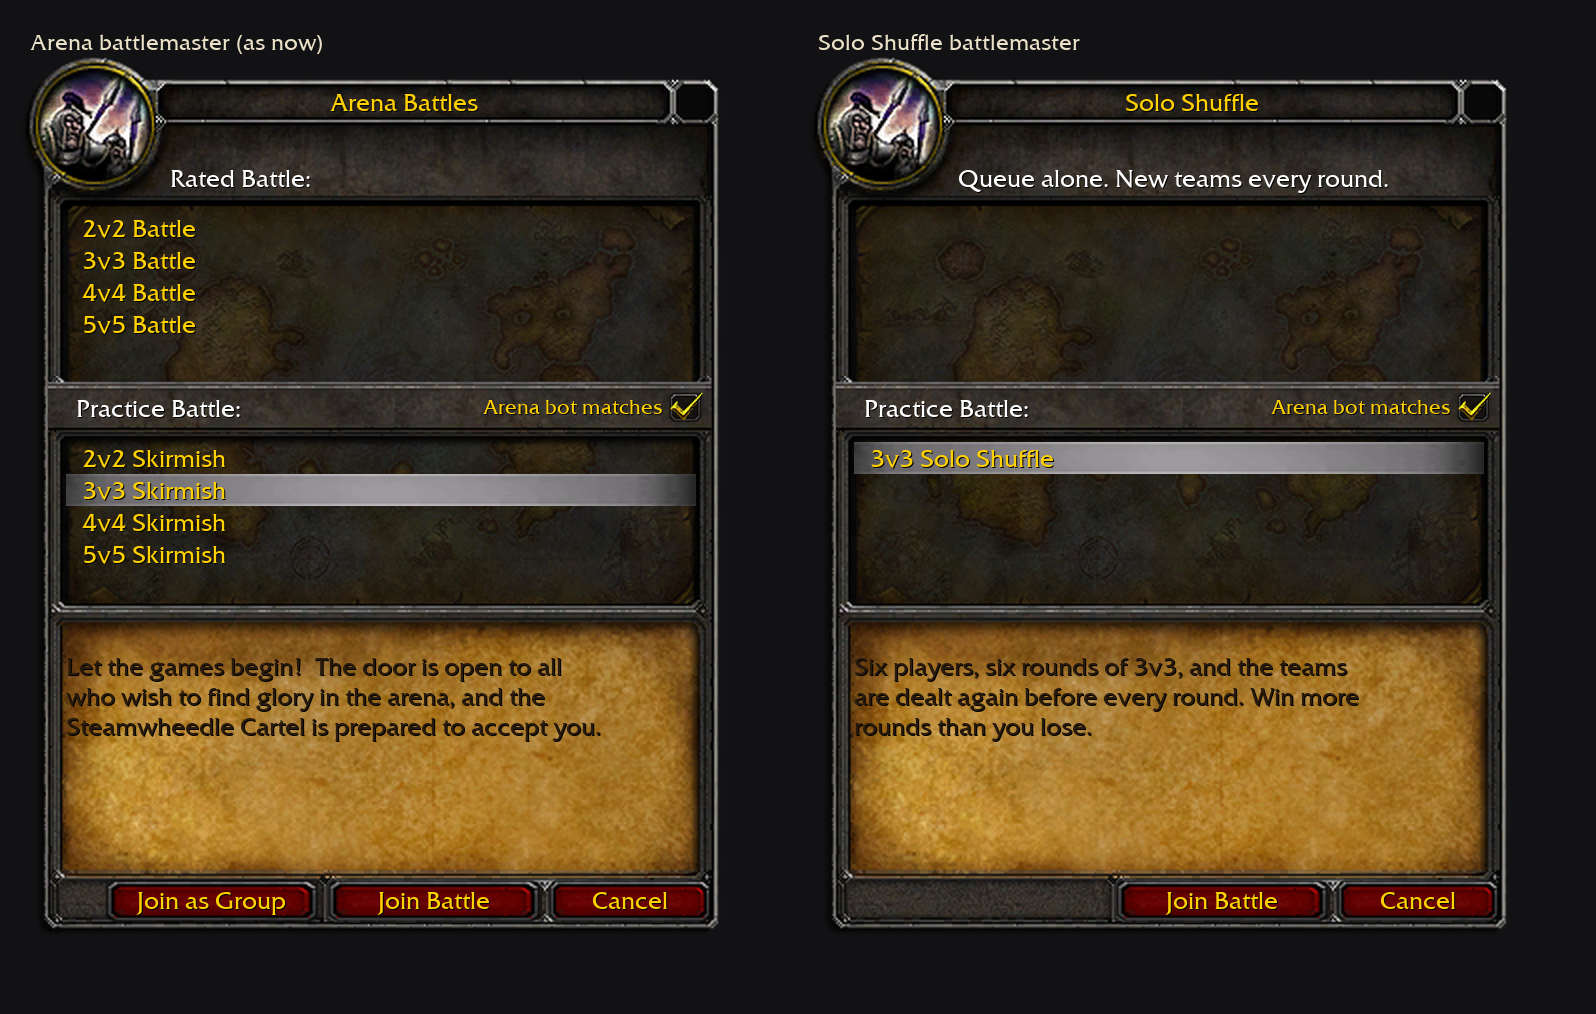
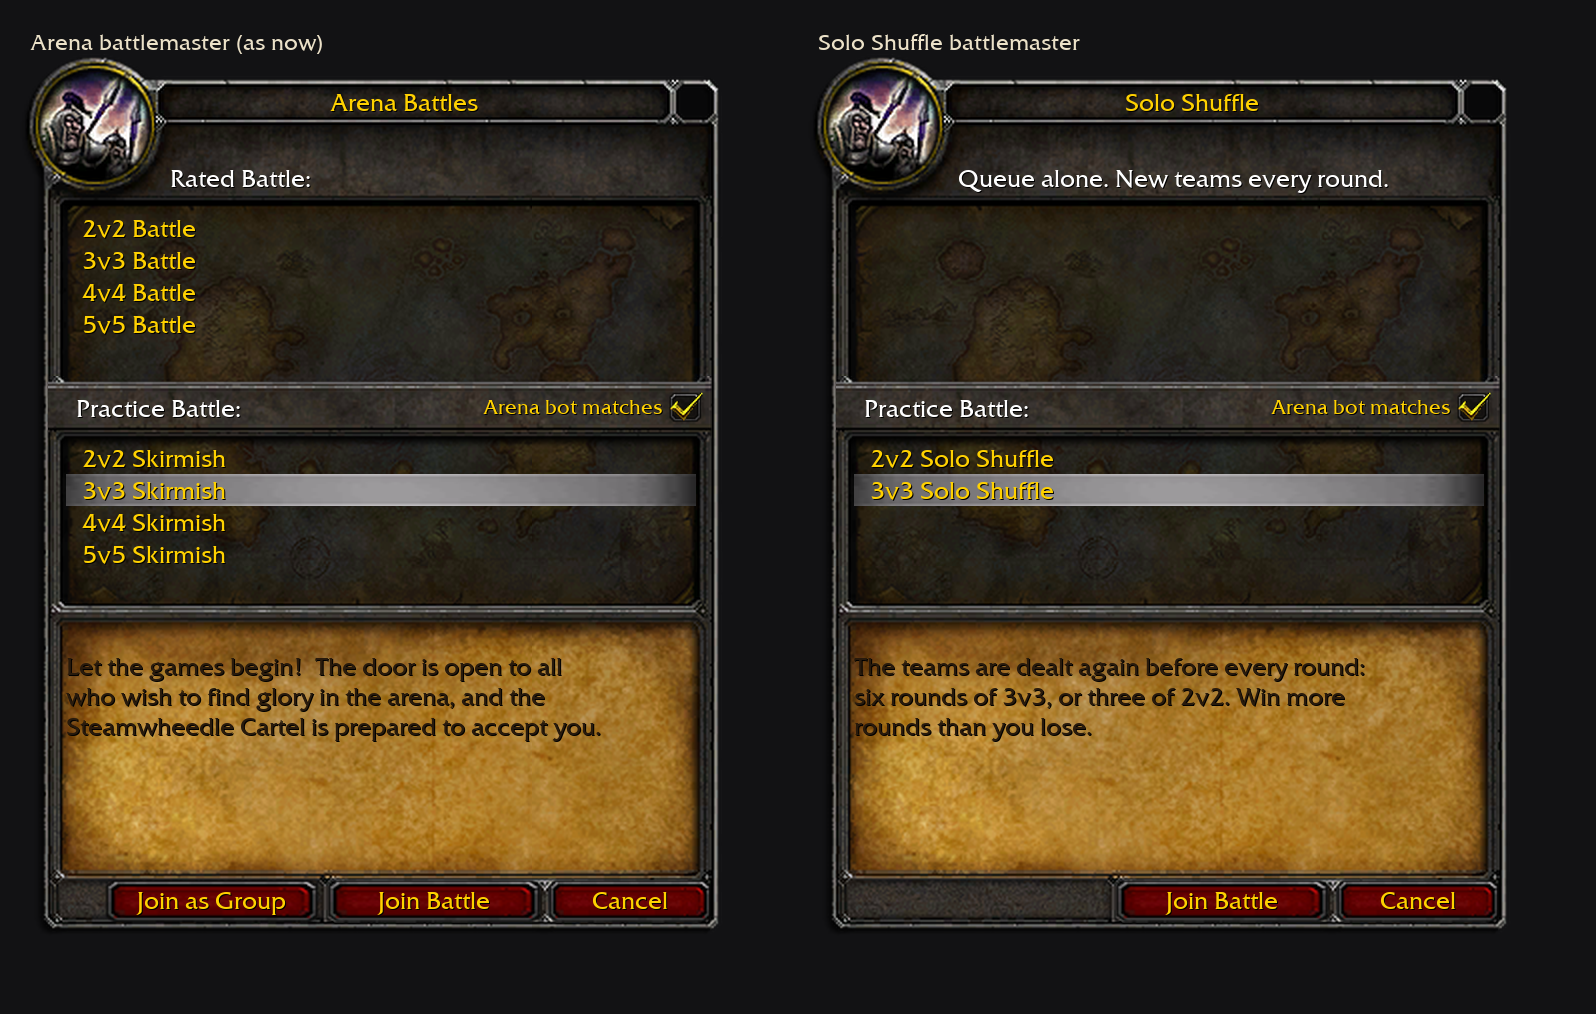
Solo Shuffle window offers 2v2 as well, as shipped in patch-enUS-A 1.00192

Changed region(s): [[0.5219, 0.428, 0.9518, 0.5197], [0.5219, 0.642, 0.8596, 0.7032]]

diff --git a/framexml/staged-soloshuffle/render/render_shuffle.py b/framexml/staged-soloshuffle/render/render_shuffle.py
@@ -79,10 +79,11 @@ def shuffle():
     fr = frame_base('Solo Shuffle', 'Queue alone. New teams every round.')
     hl = F.art('UI-Listbox-Highlight2.png')
     p_top = 194
-    fr.blit(hl, RATED_X, p_top, 315, 16)
-    fr.text('3v3 Solo Shuffle', RATED_X + 8, p_top + 8, 12, F.GOLD, anchor='lm')
+    fr.blit(hl, RATED_X, p_top + ROW, 315, 16)
+    fr.text('2v2 Solo Shuffle', RATED_X + 8, p_top + 8, 12, F.GOLD, anchor='lm')
+    fr.text('3v3 Solo Shuffle', RATED_X + 8, p_top + ROW + 8, 12, F.GOLD, anchor='lm')
     bot_box(fr)
-    description(fr, 'Six players, six rounds of 3v3, and the teams are dealt again before every round. Win more rounds than you lose.')
+    description(fr, 'The teams are dealt again before every round: six rounds of 3v3, or three of 2v2. Win more rounds than you lose.')
     buttons(fr, False)
     return fr.im
 

diff --git a/framexml/staged-soloshuffle/README.md b/framexml/staged-soloshuffle/README.md
@@ -2,12 +2,14 @@
 
 | file | archive | what |
 |---|---|---|
-| `Interface/FrameXML/ArenaFrame.lua` | **patch-enUS-A 1.00190** | `CCGAME ARENAQUEUE:SHUFFLE` (sent by Solo Shuffle's battlemaster, Dealer Rixa) puts the arena window in shuffle mode: title "Solo Shuffle", the rated rows put away and their header saying "Queue alone. New teams every round.", one practice row "3v3 Solo Shuffle" under the practice header beside "Arena bot matches", no Join as Group. Any numeric `ARENAQUEUE:<n>` leaves the mode. |
+| `Interface/FrameXML/ArenaFrame.lua` | **patch-enUS-A 1.00192** (1.00190 had the 3v3 row only) | `CCGAME ARENAQUEUE:SHUFFLE` (sent by Solo Shuffle's battlemaster, Dealer Rixa) puts the arena window in shuffle mode: title "Solo Shuffle", the rated rows put away and their header saying "Queue alone. New teams every round.", the practice rows "2v2 Solo Shuffle" and "3v3 Solo Shuffle" (3v3 picked by default) beside "Arena bot matches", no Join as Group. Any numeric `ARENAQUEUE:<n>` leaves the mode. |
 | `DBFilesClient/BattlemasterList.dbc` | **patch-enUS-A 1.00190** | Row 889 "Solo Shuffle", a copy of All Arenas (6) with levels 10-80. Byte-identical to tc-centurion's server copy; tc-centuriondev got the same row added to its own file. Without the row the client cannot show the queue status for type 889. |
 
 Built from the live 1.00189 copies (ArenaFrame.lua `eeaa45bb...`, BattlemasterList.dbc
 `ef63f3da...`); `spec_soloshuffle_A.json` is the `publish_files.py` spec that made 1.00190,
 with backups `~/patch-backups/patch-enUS-A.*.bak-solo-shuffle-1.00189`.
+`spec_soloshuffle2_A.json` made 1.00192 (2v2 row, ArenaFrame.lua `50539024...` built on 1.00190's
+`71bc5d05...`), backups `*.bak-solo-shuffle-2v2-1.00191`.
 
 `bml.py` dumps BattlemasterList.dbc and appends a row copied from another (`add <in> <out>
 <newId> <copyFromId> <name> [maxGroupSize]`). `render/render_shuffle.py` draws the window
